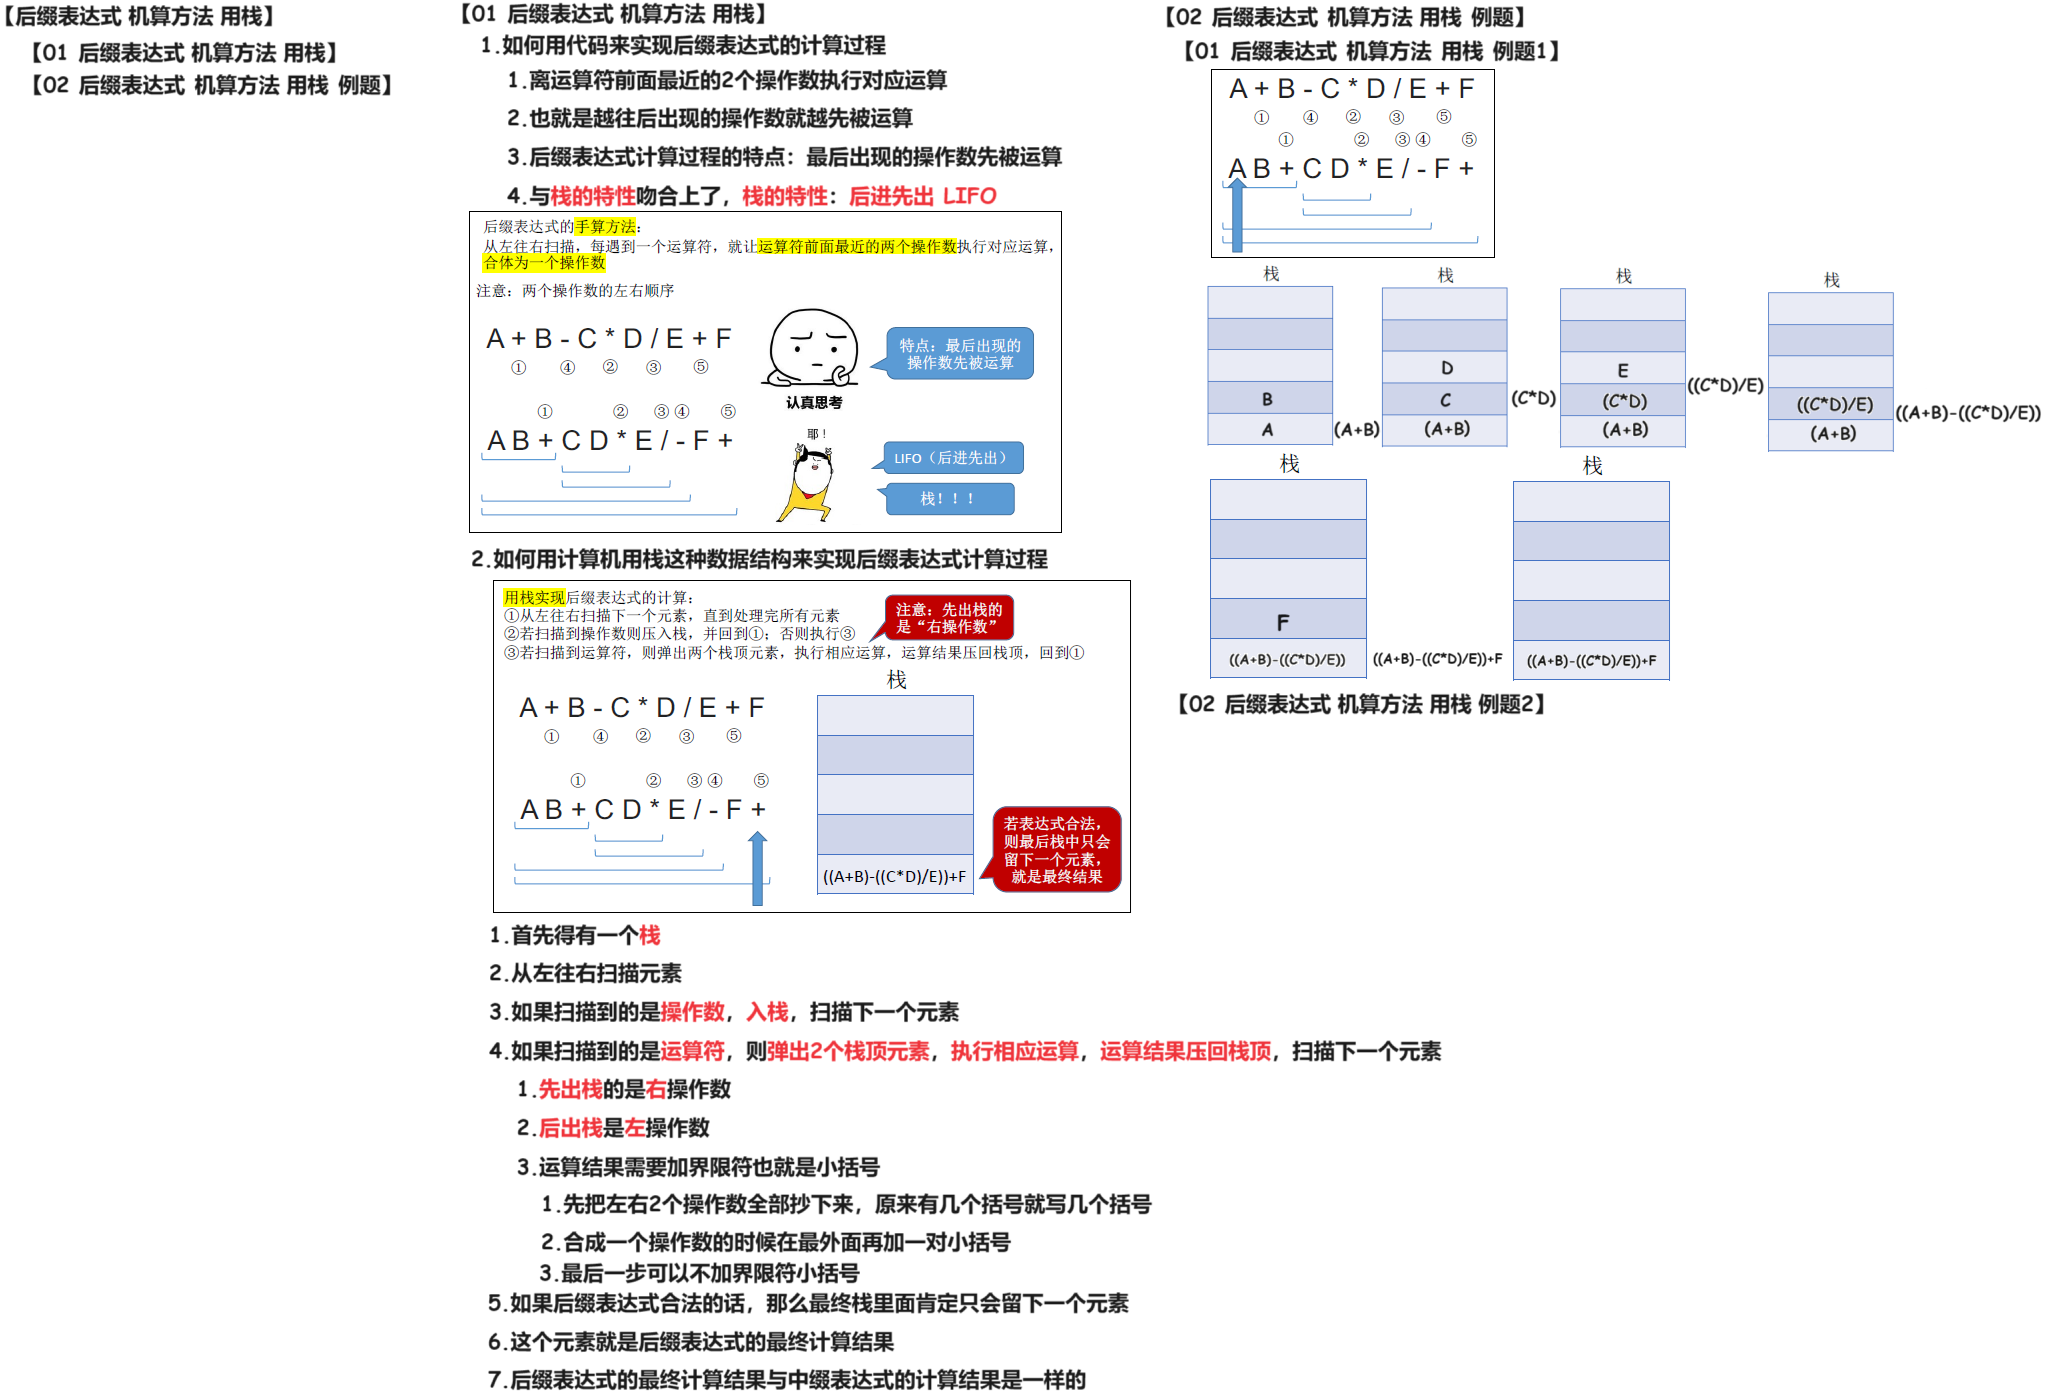
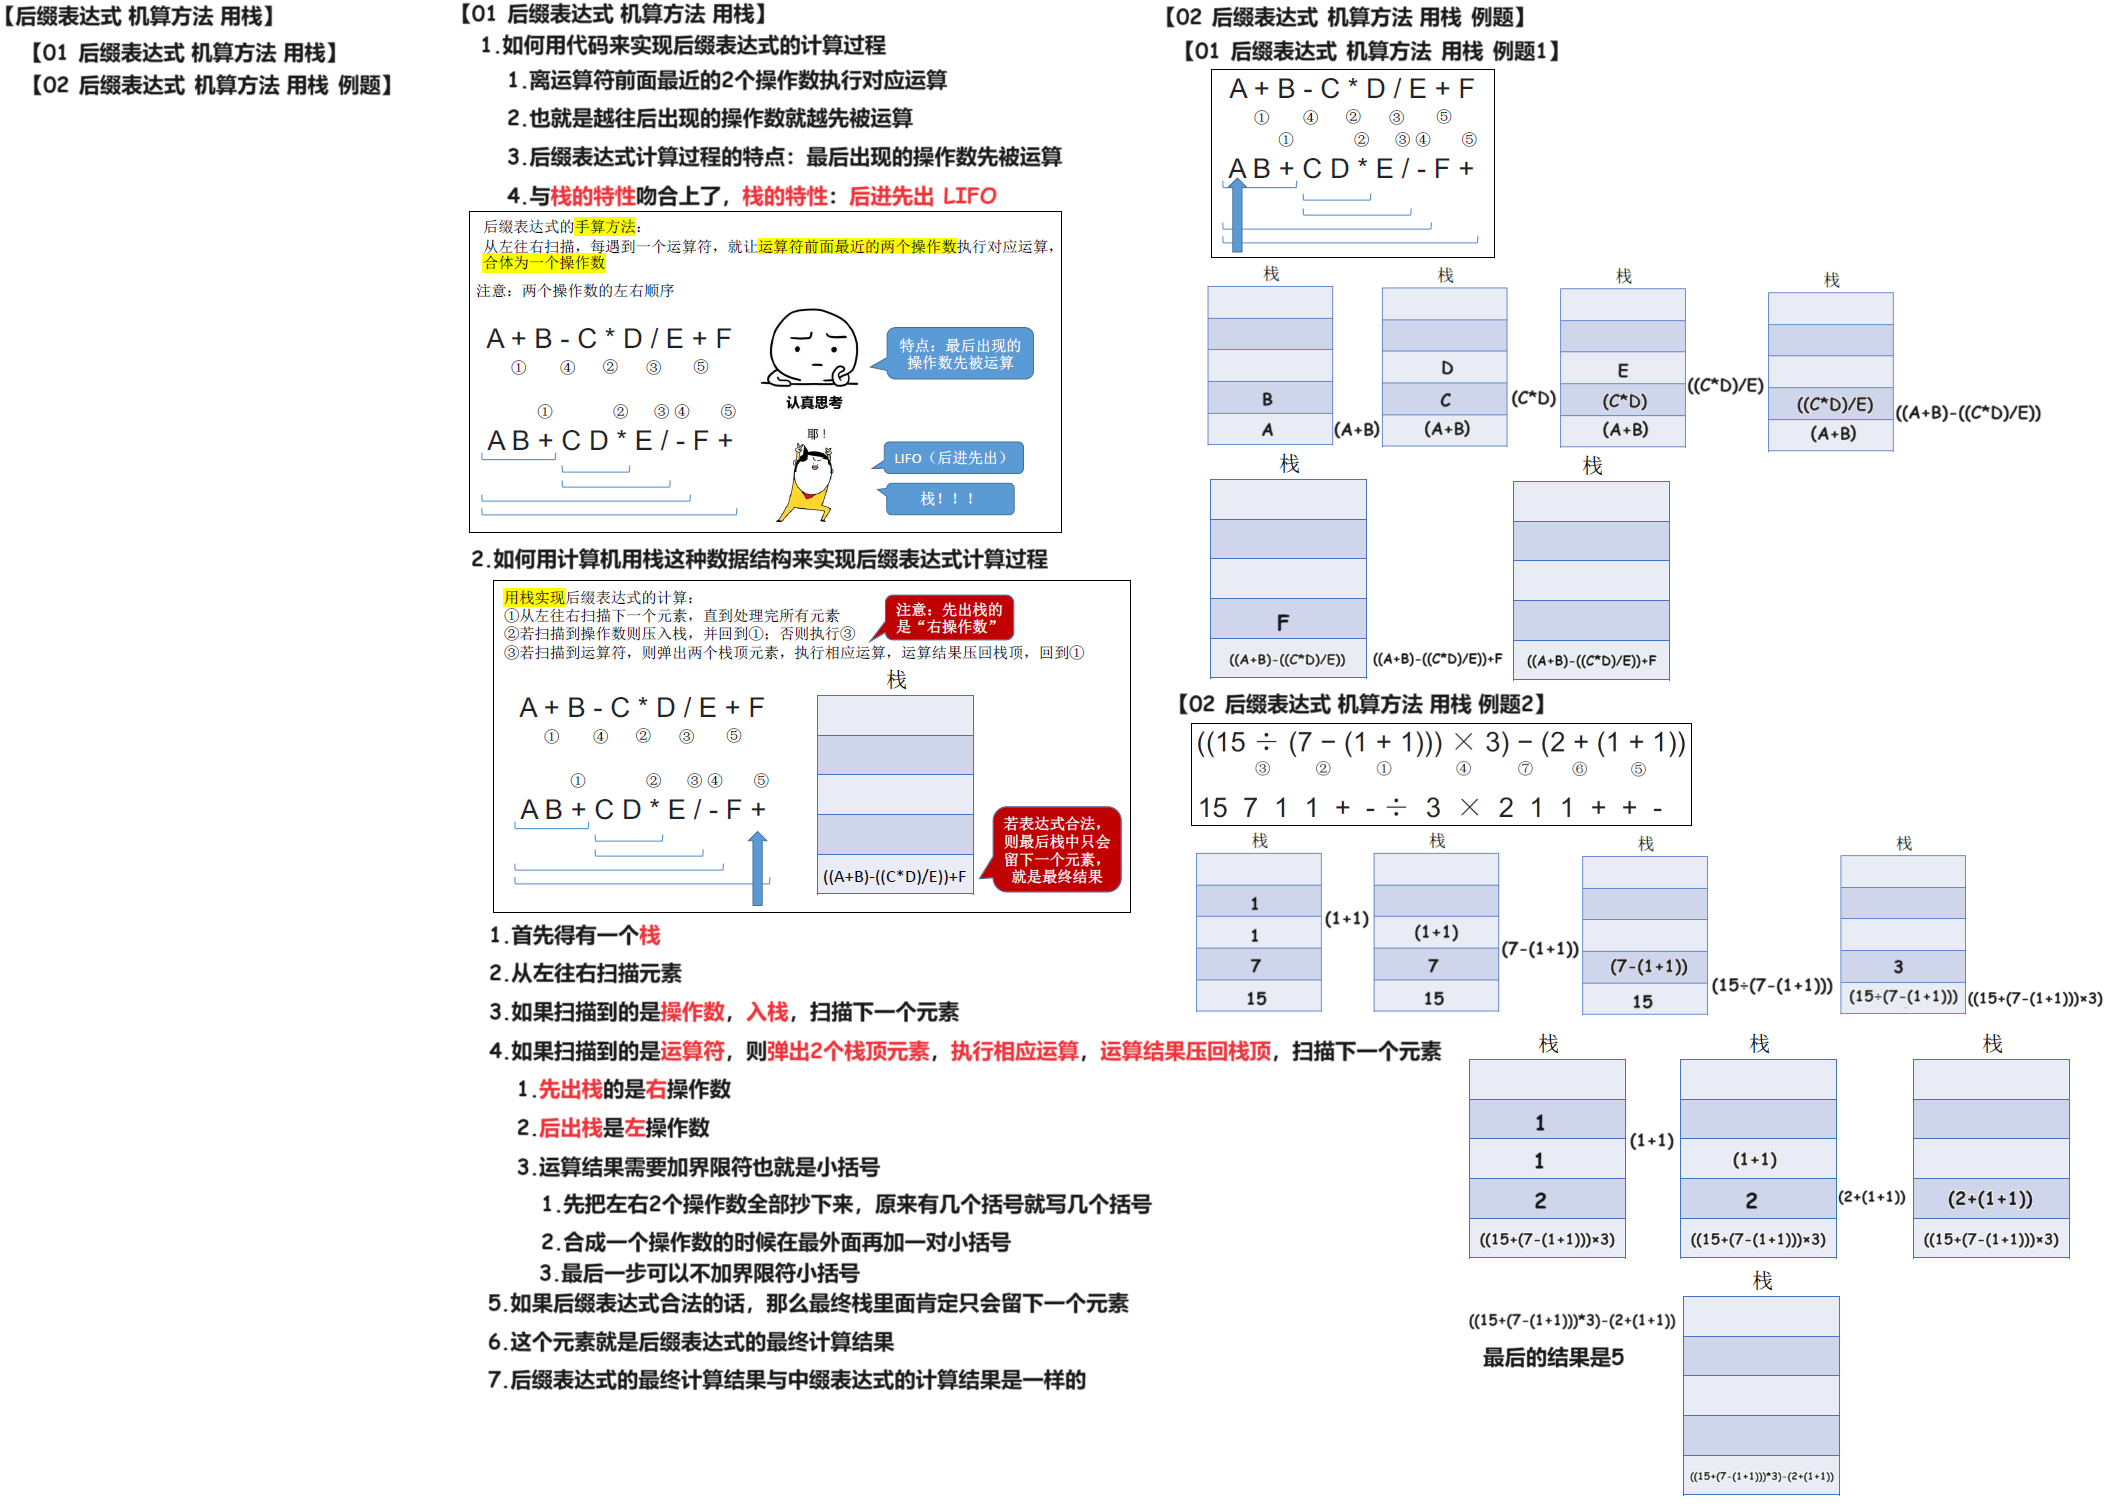
240317

Changed region(s): [[0.2188, 0.0, 1.0, 1.0], [0.0, 0.0, 0.1875, 0.0924]]

diff --git a/01 初试/02 DS/01 题集/02 专题/07 栈的应用 表达式求值 240316/01 知识点/01 王道基础/02 Doc.md b/01 初试/02 DS/01 题集/02 专题/07 栈的应用 表达式求值 240316/01 知识点/01 王道基础/02 Doc.md
@@ -30,4 +30,4 @@
 
 # 05 后缀表达式 机算方法 用栈
 
-<img src="https://cvp.oss-cn-shanghai.aliyuncs.com/picgo/202403162243042.png" alt="image-20240316224301803" style="zoom:50%;" />
+<img src="https://cvp.oss-cn-shanghai.aliyuncs.com/picgo/202403171055239.png" alt="image-20240317105516757" style="zoom:50%;" />
